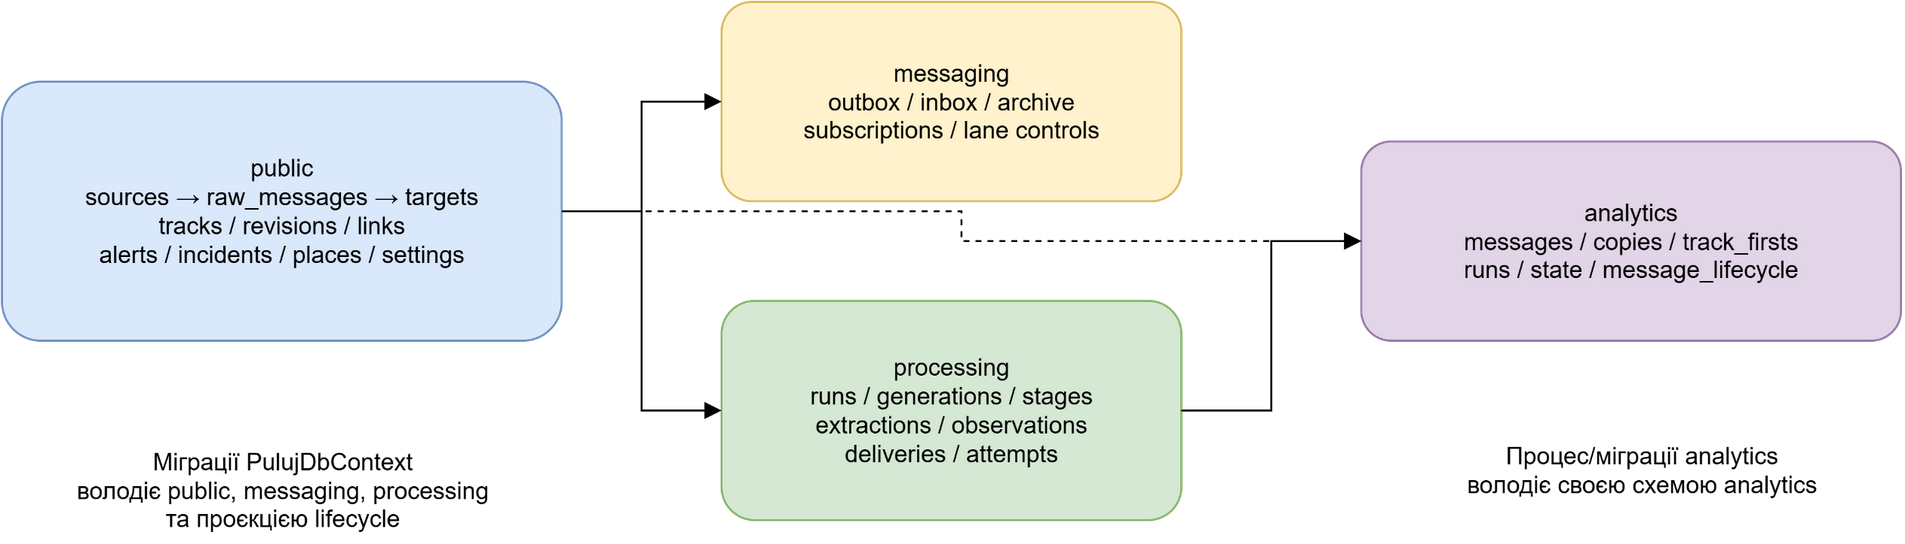
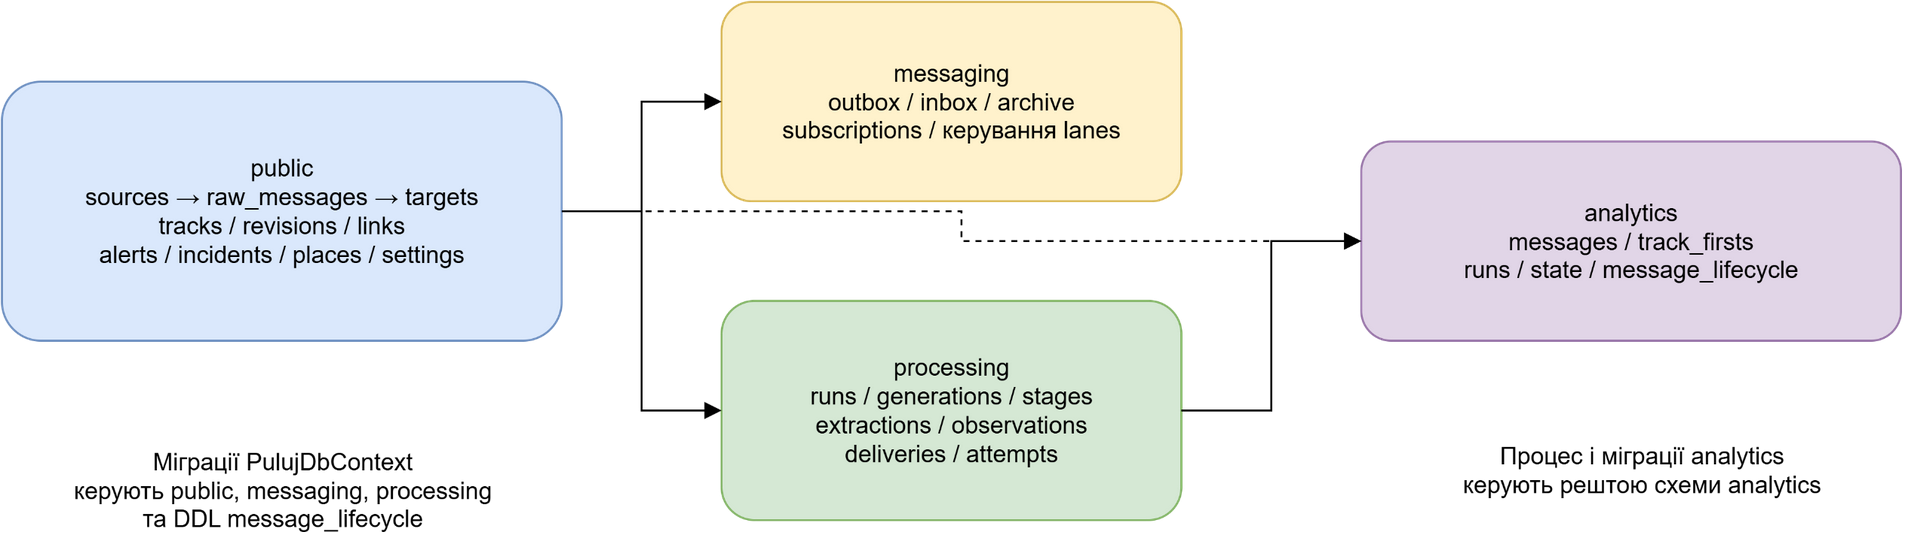
docs: remove retired copy analytics contracts

diff --git a/docs/analytics-service.md b/docs/analytics-service.md
@@ -13,13 +13,22 @@
 
 Редагована схема: [analytics-data-flow-schema-boundary.drawio](diagrams/analytics-data-flow-schema-boundary.drawio).
 
-## Text/copy reporting
+## Індекс повідомлень і звіт
 
-Loop бере raw rows у порядку ID, старші за `Analytics:SafetyLag`, і рухає watermark транзакційно разом з index/pairs. PostgreSQL advisory lock не дає двом instances виконувати один run. Після crash незакомічена batch повторюється; це не exactly-once гарантія для зовнішніх систем.
+Воркер бере `raw_messages` за зростанням ID, старші за `Analytics:SafetyLag`,
+і в одній транзакції записує індекс та новий watermark. PostgreSQL advisory lock
+не дає двом інстансам виконувати один прогін. Після збою незакомічений пакет
+повторюється; це не гарантія «рівно одного» звернення до зовнішньої системи.
 
-Пара виникає лише коли обидва повідомлення мають сумісні **розпарсені факти**: event type/category і перевірка часу, місця, напрямку та кількості у `EventWindow`. Text fingerprints, Jaccard і containment — діагностичні докази вже прийнятої semantic pair. Повідомлення без фактів не парується, тож `near`, `verbatim`, `forward` — аналітична оцінка/класифікація, не доказ копіювання чи першоджерела. «Original» обирається за ранішим published time (при рівності — меншим raw ID): це технічне упорядкування, не авторський факт.
+Індекс містить відомості про повідомлення, потрібні для стану воркера і
+`track_firsts`. `track_firsts` періодично перебудовується за налаштованим
+періодом. Аналітика не визначає копії,
+першоджерело, пари джерел або рейтинг джерел; схожий текст сам по собі не є
+таким контрактом.
 
-Read-only admin API: `/api/admin/analytics/status`, `/report`, `/recent`, `/pairs/{copierId}/{originalId}`. Status показує watermark, backlog, heartbeat, runs та instance status; звіт має джерела, пари, forwards і `track_firsts`. Значення залежать від надходження, parsing і watermark, тому не гарантують completeness/freshness у реальному часі.
+Read-only admin API `/api/admin/analytics/status` показує watermark, backlog,
+heartbeat, прогін та стан інстансу. Значення залежать від надходження даних і
+watermark, тому не гарантують повноту або актуальність у реальному часі.
 
 ## Lifecycle projection, backfill і reconciliation
 
@@ -39,4 +48,8 @@ Worker у кожному циклі виконує bounded backfill за cursor,
 
 ## Перевірка і межі
 
-`tests/Puluj.Analytics.Tests` перевіряє normalizer, semantic copy detection, pair delays, runner і lifecycle; `web/e2e/A06-lifecycle.e2e.ts` перевіряє операторський lifecycle UI. `POST /api/admin/analytics/reset` видаляє analytics index/copies/track_firsts і повертає watermark для rebuild; endpoint існує, але не вимагає actor/reason і не пише `ControlAudit`, тому це не безпечна рутинна дія.
+`tests/Puluj.Analytics.Tests` перевіряє runner, індекс, `track_firsts` і lifecycle;
+`web/e2e/A06-lifecycle.e2e.ts` перевіряє операторський lifecycle UI.
+`POST /api/admin/analytics/reset` видаляє незалежний індекс і `track_firsts`,
+після чого повертає watermark для повторної побудови. Endpoint існує, але не
+вимагає actor/reason і не пише `ControlAudit`, тому це не безпечна рутинна дія.

diff --git a/docs/domain-data-model.md b/docs/domain-data-model.md
@@ -22,14 +22,13 @@ Puluj-G зберігає незмінний вхід (`raw_messages`) окрем
 
 Поруч з ними `collector_states` тримає cursor і health колектора,
 `processing_errors` — помилки legacy-обробки, `llm_requests` — аудит LLM, а
-`app_settings` — runtime settings. `source_copies` і `source_daily_stats`
-зберігають похідну статистику джерел; це не нові первинні повідомлення.
+`app_settings` — runtime settings.
 
 Платформа повідомлень має `messaging` (`outbox`, `inbox`, архів, registry
 підписок, керування lanes), а pipeline — `processing` (runs/generations,
 stage results, attempts/deliveries, extractions та observations). Аналітика
-власноруч мігрує схему `analytics`: `messages`, `copies`, `track_firsts`,
-`runs`, `state`; lifecycle-проєкція також зберігається як
+власноруч мігрує схему `analytics`: `messages`, `track_firsts`, `runs`,
+`state`; lifecycle-проєкція також зберігається як
 `analytics.message_lifecycle`. Її поля з невідомим старим таймінгом лишають
 `timings_available = false`, а не заповнюються вигаданими значеннями.
 
